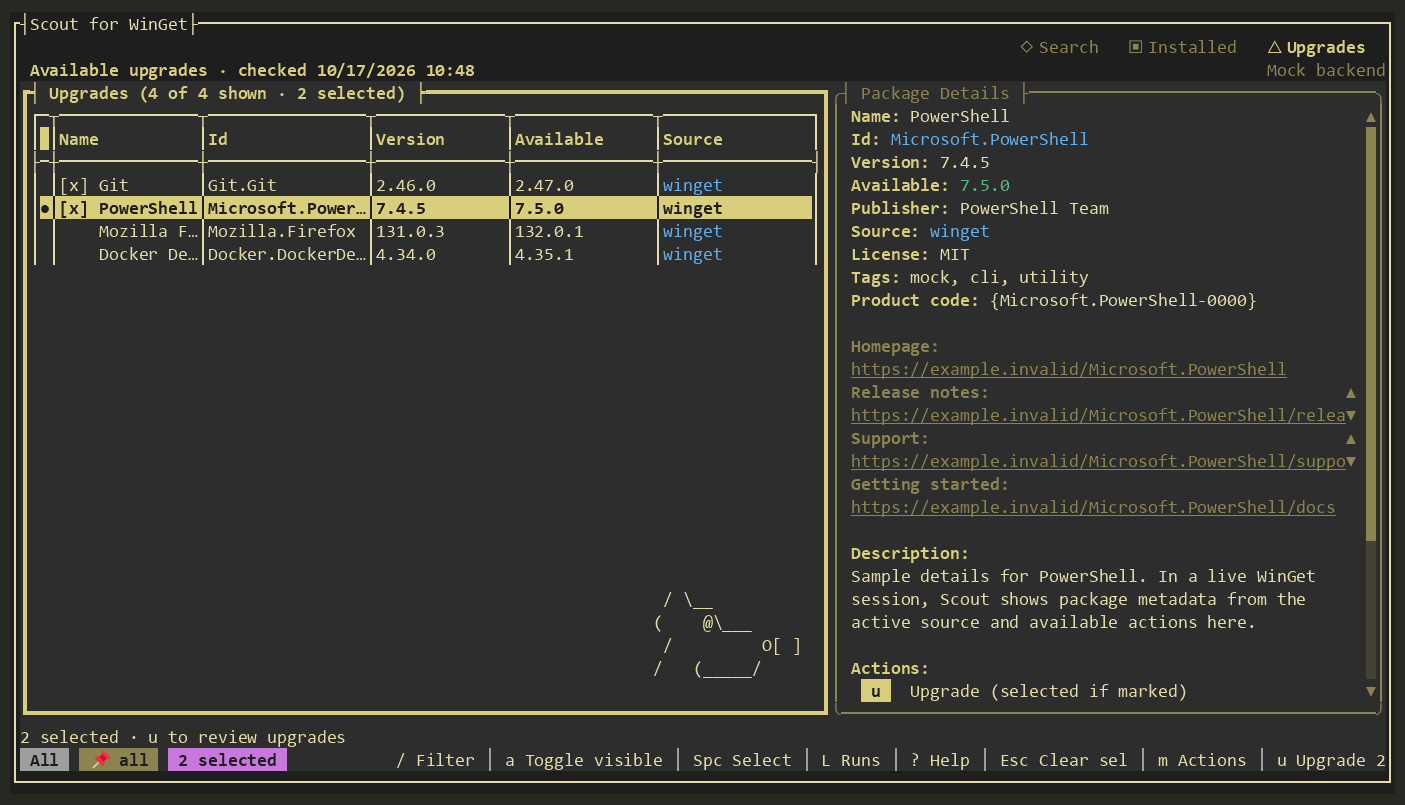
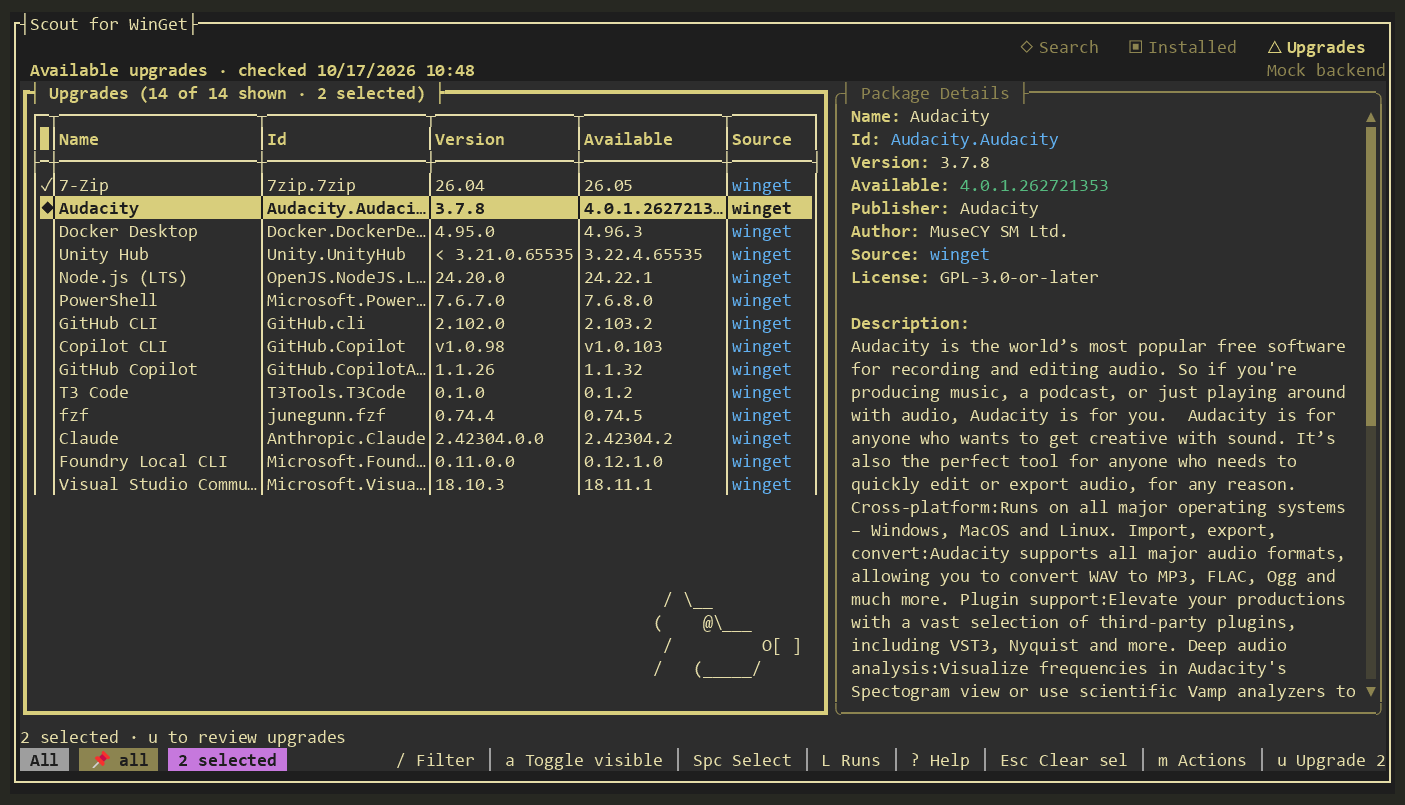
Prepare 1.1.1 release and refresh realistic mock captures (#67)

diff --git a/site/docs.html b/site/docs.html
@@ -23,8 +23,8 @@
     <div class="wrap docs-layout">
       <aside class="docs-sidebar" aria-label="Documentation sections"><p>ON THIS PAGE</p><a href="#install">Install Scout</a><a href="#first-run">Daily workflow</a><a href="#batches">Batches and selections</a><a href="#runs">History and retries</a><a href="#diagnostics">Diagnostics and reports</a><a href="#advanced">Advanced installs</a><a href="#shortcuts">Keyboard shortcuts</a><a href="#themes">Themes</a><a href="#updates">Update checks</a><a href="#backends">Backends</a><a href="#troubleshooting">Troubleshooting</a><a href="#more">More resources</a></aside>
       <div class="docs-content">
-        <section id="install"><p class="section-kicker">01 / INSTALL</p><h2>Install Scout</h2><div class="callout"><strong>Current release: 1.1.0.</strong> Clearer batch actions and progress, reviewed retries, backend/source diagnostics, report exports, and clearer advanced options. <a href="https://github.com/harder/wingetscout/releases/tag/v1.1.0">Read the release notes</a>.</div><p>Scout runs on Windows 10 or 11 with WinGet available through App Installer. Windows Terminal is recommended. Choose the <strong>portable ZIP</strong> that matches your PC:</p><div class="download-grid"><a href="https://github.com/harder/wingetscout/releases/download/v1.1.0/wingetscout-1.1.0-win-x64.zip"><strong>Windows x64</strong><span>Intel or AMD · portable ZIP ↗</span></a><a href="https://github.com/harder/wingetscout/releases/download/v1.1.0/wingetscout-1.1.0-win-arm64.zip"><strong>Windows arm64</strong><span>ARM-based PCs · portable ZIP ↗</span></a></div><ol><li>Extract the complete ZIP to a folder you will keep, such as <code>%LOCALAPPDATA%\Programs\WinGetScout</code>.</li><li>Open Windows Terminal or PowerShell in that folder.</li><li>Run <code>.\wingetscout.exe</code>.</li></ol><div class="callout"><strong>Keep the files together.</strong> The ZIP includes companion files used by the WinGet COM backend. The standalone EXE download uses the WinGet CLI backend.</div><p>The community WinGet package ID is <code>Harder.WinGetScout</code>. Its <a href="https://github.com/microsoft/winget-pkgs/pull/451328">community submission is under review</a>. Once accepted and indexed, <code>winget install -e --id Harder.WinGetScout</code> will place the portable package in WinGet's managed directory and add its command to your user PATH. The package is not yet available in the community source.</p><p>Downloads are currently unsigned. Check the release's <code>SHA256SUMS</code> file before running a download. See the <a href="https://github.com/harder/wingetscout/blob/main/docs/signing-and-distribution.md">signing status and plan</a>.</p></section>
-        <section id="first-run"><p class="section-kicker">02 / DAILY WORKFLOW</p><h2>Find your way around</h2><p>Scout opens on Installed packages. Use the left and right arrow keys or <code>1</code>/<code>2</code>/<code>3</code> to switch between <strong>Search</strong>, <strong>Installed</strong>, and <strong>Upgrades</strong>. The package list and detail panel stay side by side, so you can compare results without retyping a package ID.</p><div class="docs-image"><img src="media/scout-amber-installed.png" width="1405" height="805" loading="lazy" alt="Scout 1.1.0 showing Installed packages, details, and the two-row footer in Amber with sample data"><span>Installed view · Amber theme · v1.1.0 · sample data</span></div><ol><li>Search for a package with <code>/</code> and move through the results. Publisher, source, versions, links, and description appear beside the list.</li><li>Press <code>i</code> to install the highlighted result, or mark several with <code>Space</code> and press <code>i</code> or <code>B</code> to review the entire selection.</li><li>In Upgrades, mark packages and press <code>u</code> or <code>U</code> to review a batch.</li><li>Approve the explicit <strong>Install (N)</strong> or <strong>Upgrade (N)</strong> button after checking the plan. Open <code>L</code> afterward for outcomes, diagnostics, and reviewed retries.</li></ol><p>Press <code>m</code> or <code>Shift+F10</code>, or right-click a row, for actions that match the tab, selection, backend, and pin state. Menus put the selected plan first and offer a separate highlighted-package action. Use <code>?</code> for help; arrow and page keys scroll it.</p><p>The <a href="media/scout-search-demo.gif">search demo</a> and <a href="media/scout-upgrades-demo.gif">batch-review demo</a> show the 1.1.0 UI with sample packages. Both cancel their plans without installing anything.</p></section>
+        <section id="install"><p class="section-kicker">01 / INSTALL</p><h2>Install Scout</h2><div class="callout"><strong>Current release: 1.1.1.</strong> Compact package lists, simpler Details, clear selection markers, keyboard access to secondary links, and rendering fixes. <a href="https://github.com/harder/wingetscout/releases/tag/v1.1.1">Read the release notes</a>.</div><p>Scout runs on Windows 10 or 11 with WinGet available through App Installer. Windows Terminal is recommended. Choose the <strong>portable ZIP</strong> that matches your PC:</p><div class="download-grid"><a href="https://github.com/harder/wingetscout/releases/download/v1.1.1/wingetscout-1.1.1-win-x64.zip"><strong>Windows x64</strong><span>Intel or AMD · portable ZIP ↗</span></a><a href="https://github.com/harder/wingetscout/releases/download/v1.1.1/wingetscout-1.1.1-win-arm64.zip"><strong>Windows arm64</strong><span>ARM-based PCs · portable ZIP ↗</span></a></div><ol><li>Extract the complete ZIP to a folder you will keep, such as <code>%LOCALAPPDATA%\Programs\WinGetScout</code>.</li><li>Open Windows Terminal or PowerShell in that folder.</li><li>Run <code>.\wingetscout.exe</code>.</li></ol><div class="callout"><strong>Keep the files together.</strong> The ZIP includes companion files used by the WinGet COM backend. The standalone EXE download uses the WinGet CLI backend.</div><p>The community WinGet package ID is <code>Harder.WinGetScout</code>. Its <a href="https://github.com/microsoft/winget-pkgs/pull/451328">community submission is under review</a>. Once accepted and indexed, <code>winget install -e --id Harder.WinGetScout</code> will place the portable package in WinGet's managed directory and add its command to your user PATH. The package is not yet available in the community source.</p><p>Downloads are currently unsigned. Check the release's <code>SHA256SUMS</code> file before running a download. See the <a href="https://github.com/harder/wingetscout/blob/main/docs/signing-and-distribution.md">signing status and plan</a>.</p></section>
+        <section id="first-run"><p class="section-kicker">02 / DAILY WORKFLOW</p><h2>Find your way around</h2><p>Scout opens on Installed packages. Use the left and right arrow keys or <code>1</code>/<code>2</code>/<code>3</code> to switch between <strong>Search</strong>, <strong>Installed</strong>, and <strong>Upgrades</strong>. The package list and detail panel stay side by side, so you can compare results without retyping a package ID.</p><p>The left marker uses <code>✓</code> for selected packages, <code>◆</code> for the current selected row, and <code>●</code> for the current unselected row. Details puts descriptions first and uses compact link labels. Open Actions with <code>m</code> and choose <strong>More links…</strong> for keyboard access to support, privacy, purchase, and documentation links.</p><div class="docs-image"><img src="media/scout-amber-installed.png" width="1405" height="805" loading="lazy" alt="Scout 1.1.1 showing Installed packages, details, and the two-row footer in Amber with sample data"><span>Installed view · Amber theme · v1.1.1 · sample data</span></div><ol><li>Search for a package with <code>/</code> and move through the results. Publisher, source, versions, links, and description appear beside the list.</li><li>Press <code>i</code> to install the highlighted result, or mark several with <code>Space</code> and press <code>i</code> or <code>B</code> to review the entire selection.</li><li>In Upgrades, mark packages and press <code>u</code> or <code>U</code> to review a batch.</li><li>Approve the explicit <strong>Install (N)</strong> or <strong>Upgrade (N)</strong> button after checking the plan. Open <code>L</code> afterward for outcomes, diagnostics, and reviewed retries.</li></ol><p>Press <code>m</code> or <code>Shift+F10</code>, or right-click a row, for actions that match the tab, selection, backend, and pin state. Menus put the selected plan first and offer a separate highlighted-package action. Use <code>?</code> for help; arrow and page keys scroll it.</p><p>The <a href="media/scout-search-demo.gif">search demo</a> and <a href="media/scout-upgrades-demo.gif">batch-review demo</a> show the 1.1.1 UI with sample packages. Both cancel their plans without installing anything.</p></section>
         <section id="batches"><p class="section-kicker">03 / SELECT AND REVIEW</p><h2>Run a batch with a clear scope</h2><ol><li>Mark packages with <code>Space</code>. <code>a</code> toggles all visible rows.</li><li>Read the heading's visible/total and selected/hidden counts. Filtering, changing sources, or searching again can hide marks without clearing them.</li><li>Use <code>i</code>/<code>B</code> in Search or <code>u</code>/<code>U</code> in Upgrades. The review includes hidden selections, with visible packages in their current sort order first.</li><li>Inspect ready/skipped reasons. Enter or double-click opens Details; use Tab to reach <strong>Install (N)</strong> or <strong>Upgrade (N)</strong> and approve the ready packages.</li><li>Watch the dedicated status row for package position and backend progress. The list refreshes as soon as the batch finishes, while results are open. Successful packages are deselected; failed or cancelled ones stay marked.</li></ol><div class="callout"><strong>Marking and inspecting never approve a batch.</strong> Every selected plan and retry opens for review. An entry that cannot be resolved or safely checked is skipped with a reason.</div><p>Escape first cancels the current input or pending check/operation. Otherwise it clears all marks, including hidden packages; <strong>Clear selection</strong> in Actions does the same. Changing tabs or sources, refreshing, or cancelling a pending check discards it so a late response cannot open a stale review.</p><p>Compact tables prioritize names and versions. Full IDs and sources remain in Details; wider windows restore their columns. The title shows the active sort field and arrow even if that column is hidden. Sorting, theme changes, and pin filters keep the highlighted package when it remains visible.</p></section>
         <section id="runs"><p class="section-kicker">04 / OUTCOMES AND RETRIES</p><h2>Understand a run. Review what comes next.</h2><p>Press <code>L</code> for the 20 most recent operation runs. Open a run and choose <strong>Details</strong>, or press Enter on a package, for timing, source, versions, requested options, backend, CLI exit codes, and diagnostic output. Reports retain up to 16,384 characters of diagnostic output per package.</p><p><strong>Retry package</strong> uses the highlighted result. <strong>Retry unfinished (N)</strong> rechecks retryable failed, cancelled, and skipped requests, including packages not started in an interrupted batch. Successful packages are not repeated by Retry unfinished. Scout resolves each original ID/source and rechecks relevant installed state, versions, and pins before showing a fresh review.</p><div class="callout"><strong>Retries still need approval.</strong> Inspect ready/skipped reasons and requested options, then approve the review. Original outcomes remain in history. Pin changes and older entries without a recorded request have no retry action.</div></section>
         <section id="diagnostics"><p class="section-kicker">05 / DIAGNOSE AND SHARE</p><h2>Backend, source, and package reports</h2><p>Press <code>D</code>, or choose <strong>Backend and source diagnostics</strong> in Actions, to inspect the active backend/version, process architecture, capabilities, recorded COM fallback reason, source filter, and latest inventory-load error. The shortcut also works during a foreground workflow.</p><p>Read-only checks query each configured source for <code>Microsoft.PowerToys</code>. Empty successful queries are distinguished from failed queries or source discovery. <strong>Refresh</strong> repeats the checks; closing the panel cancels pending work.</p><p>Use <strong>Copy</strong>, <strong>Save text</strong>, or <strong>Save JSON</strong> for a completed backend report or a package's run diagnostic report. Choose a destination and confirm before replacing an existing file. Cancelling or failing a save preserves the original file; a clipboard failure leaves the viewer open so you can save instead. Arrow keys, PageUp/PageDown, Home/End, and scrollbars navigate reports.</p><div class="callout"><strong>Diagnostics do not change packages.</strong> A successful source query does not prove installation will succeed. Opening or closing reports does not cancel an operation or review already in progress.</div></section>
@@ -52,7 +52,7 @@
         <section id="updates"><p class="section-kicker">09 / STAY CURRENT</p><h2>Scheduled update checks</h2><p>On the Upgrades tab, press <code>C</code> to check now or set a daily local time. Scout creates a current-user Windows Task Scheduler task. The first successful check establishes a baseline; later checks can notify you about new or changed unpinned upgrades or a failed check.</p><div class="callout"><strong>Checks never install updates automatically.</strong> Turn off the schedule in the same dialog to remove its task. Keep the extracted folder at the same path so the task can find Scout.</div><p>Scout keeps package sets, recent runs, update-check results, and schedule settings under <code>%LOCALAPPDATA%\WinGetScout</code>. Mock sessions use its <code>Mock</code> subfolder, support manual checks, and cannot register, change, or remove daily tasks.</p></section>
         <section id="backends"><p class="section-kicker">10 / UNDER THE HOOD</p><h2>Backends and capabilities</h2><p>The complete portable ZIP uses the structured WinGet COM API where it can activate. If COM is unavailable, Scout falls back to the <code>winget</code> CLI and shows the active backend in its header. The standalone EXE download uses the CLI because it lacks the COM companion files.</p><p>Both backends support core search, install, upgrade, uninstall, pins, saved sets, history, and scheduled checks. COM can provide richer details, installer previews, version lists, live progress, and supported verify or repair actions. Some information depends on what the active backend exposes.</p><p>Native ARM64 COM installs have an unresolved <a href="https://github.com/harder/wingetscout/blob/main/docs/architecture.md#known-com-limitations">known limitation</a>. Use <code>wingetscout.exe --cli</code> for affected operations. Architecture overrides are checked against read-only previews, which do not validate an actual install.</p></section>
         <section id="troubleshooting"><p class="section-kicker">11 / HELP</p><h2>Troubleshooting</h2><div class="faq"><h3>WinGet is missing</h3><p>Run <code>winget --version</code>. If the command is unavailable, install or update Microsoft App Installer, then open a new terminal.</p><h3>Windows warns about an unsigned download</h3><p>Confirm the file came from the project's GitHub Release and compare its SHA-256 hash with the matching <code>SHA256SUMS</code> file. See the signing guide for the current status.</p><h3>COM is unavailable</h3><p>Make sure you extracted the whole ZIP, then check the active backend shown in Scout. CLI fallback still supports the core workflows. See <a href="https://github.com/harder/wingetscout#backends-and-capabilities">backend and activation details</a>.</p><h3>A batch only partly completed</h3><p>Open its results in <code>L</code>, inspect package diagnostics, and choose <strong>Retry unfinished (N)</strong> to recheck retryable requests. Review the new plan before approving.</p><h3>Selected packages seem to be missing</h3><p>Check the hidden-selection count. Filters, source changes, or earlier searches can hide marks. Review the full selection or use <strong>Clear selection</strong> in Actions.</p><h3>A list or source query failed</h3><p>Open <code>D</code> for backend/source checks and copy or save the completed report. For a package operation failure, export that package's diagnostic report from <code>L</code>.</p><h3>Text looks different in another terminal</h3><p>Windows Terminal is recommended. Terminal palette and color-support settings affect rendering; <code>NO_COLOR</code> or <code>TERM=dumb</code> in the launching environment can reduce the palette. Try another theme with <code>t</code> and include your terminal host when reporting a display issue.</p><h3>How do I get help or report a bug?</h3><p>Press <code>?</code> in Scout or open a <a href="https://github.com/harder/wingetscout/issues">GitHub issue</a>.</p></div></section>
-        <section id="more"><p class="section-kicker">12 / MORE</p><h2>More resources</h2><p>Read the <a href="https://github.com/harder/wingetscout#readme">README</a>, <a href="https://github.com/harder/wingetscout/blob/main/docs/usage.md">usage guide</a>, <a href="https://github.com/harder/wingetscout/blob/main/docs/architecture.md">architecture guide</a>, <a href="https://github.com/harder/wingetscout/releases">release history</a>, and <a href="https://github.com/harder/wingetscout/blob/main/docs/releases/1.1.0.md">1.1.0 release notes</a>.</p><p>Scout was inspired by <a href="https://github.com/shanselman/winget-tui">Scott Hanselman's winget-tui</a> and is built with <a href="https://github.com/tui-cs/Terminal.Gui">Terminal.Gui</a>. It is an independent MIT-licensed project. Meet <a href="./#maker">Kevin and the other tools behind Scout</a>.</p></section>
+        <section id="more"><p class="section-kicker">12 / MORE</p><h2>More resources</h2><p>Read the <a href="https://github.com/harder/wingetscout#readme">README</a>, <a href="https://github.com/harder/wingetscout/blob/main/docs/usage.md">usage guide</a>, <a href="https://github.com/harder/wingetscout/blob/main/docs/architecture.md">architecture guide</a>, <a href="https://github.com/harder/wingetscout/releases">release history</a>, and <a href="https://github.com/harder/wingetscout/blob/main/docs/releases/1.1.1.md">1.1.1 release notes</a>.</p><p>Scout was inspired by <a href="https://github.com/shanselman/winget-tui">Scott Hanselman's winget-tui</a> and is built with <a href="https://github.com/tui-cs/Terminal.Gui">Terminal.Gui</a>. It is an independent MIT-licensed project. Meet <a href="./#maker">Kevin and the other tools behind Scout</a>.</p></section>
       </div>
     </div>
   </main>

diff --git a/site/index.html b/site/index.html
@@ -32,10 +32,10 @@
         <p class="lead">Scout for WinGet puts search results, package details, installed apps, and available upgrades in one terminal workspace. Fewer commands to remember. More room to decide what happens next.</p>
         <div class="hero-actions"><a class="button button-primary" href="https://github.com/harder/wingetscout/releases/latest">Download for Windows <span aria-hidden="true">↗</span></a><a class="button button-secondary" href="docs.html#install">Get started</a></div>
         <p class="hero-note">Free and open source · Portable ZIP · x64 and arm64</p>
-        <p class="hero-note"><a href="https://github.com/harder/wingetscout/releases/tag/v1.1.0">Latest release: 1.1.0</a> · <a href="#new">New in 1.1.0: batches, retries, and diagnostics</a></p>
+        <p class="hero-note"><a href="https://github.com/harder/wingetscout/releases/tag/v1.1.1">Latest release: 1.1.1</a> · <a href="#new">New in 1.1.1: more room, simpler Details</a></p>
       </div>
       <div class="hero-stage">
-        <div class="hero-window"><div class="window-bar"><span class="window-dots" aria-hidden="true"><i></i><i></i><i></i></span><span>Scout for WinGet <em>/</em> Search</span><span class="window-status">DEMO MODE</span></div><img src="media/scout-sage-search.png" width="1405" height="805" alt="Scout search results beside Git package details in the Sage theme using sample data" fetchpriority="high"></div>
+        <div class="hero-window"><div class="window-bar"><span class="window-dots" aria-hidden="true"><i></i><i></i><i></i></span><span>Scout for WinGet <em>/</em> Search</span><span class="window-status">DEMO MODE</span></div><img src="media/scout-sage-search.png" width="1405" height="805" alt="Scout search results beside GitHub CLI package details in the Sage theme using sample data" fetchpriority="high"></div>
         <div class="mascot-sticker"><img src="media/scout-dog.svg" width="206" height="142" alt="Scout, a floppy-eared puppy carrying a parcel"></div>
         <div class="stage-caption"><span class="caption-line" aria-hidden="true"></span> Results and details stay together</div>
       </div>
@@ -59,31 +59,31 @@
     </div></section>
 
     <section class="section wrap" id="new" aria-labelledby="new-title">
-      <div class="section-heading"><p class="section-kicker">NEW IN 1.1.0</p><h2 id="new-title">A clearer batch. A useful record.</h2><p>See what is selected, follow each package, understand the outcome, and review unfinished work before trying again. Available in the 1.1.0 release.</p></div>
+      <div class="section-heading"><p class="section-kicker">NEW IN 1.1.1</p><h2 id="new-title">More room. Useful details.</h2><p>Package names and versions get the space they need, while Details keeps the information that helps you decide.</p></div>
       <div class="feature-grid">
-        <article class="feature-card"><span class="feature-icon" aria-hidden="true">✓</span><span class="feature-number">SELECT AND REVIEW</span><h3>Know what will run</h3><p>Mark packages, then press i in Search or u in Upgrades to review them together. See visible, selected, and hidden counts; inspect Details before approving the explicit Install (N) or Upgrade (N) button.</p><div class="feature-links"><a href="docs.html#batches">Batch workflow →</a></div></article>
-        <article class="feature-card"><span class="feature-icon" aria-hidden="true">↗</span><span class="feature-number">FOLLOW THE WORK</span><h3>Keep progress in view</h3><p>A dedicated status row shows the current package and backend progress. Inventory refreshes when the batch finishes, successful marks clear, and unfinished packages stay selected. Contextual menus offer both batch and highlighted-package actions.</p><div class="feature-links"><a href="docs.html#first-run">Daily controls →</a></div></article>
-        <article class="feature-card"><span class="feature-icon" aria-hidden="true">◷</span><span class="feature-number">UNDERSTAND AND RETRY</span><h3>Pick up unfinished work</h3><p>Inspect package timing, versions, options, and diagnostic output in recent runs. Retry one package or unfinished requests after fresh checks and another review, keeping the original outcomes in history.</p><div class="feature-links"><a href="docs.html#runs">History and retries →</a></div></article>
-        <article class="feature-card"><span class="feature-icon" aria-hidden="true">▤</span><span class="feature-number">CHECK AND EXPLAIN</span><h3>Get useful diagnostics</h3><p>Check backend and source health, then copy or save text/JSON reports. Advanced installs explain defaults and overrides and preview the selected installer before final confirmation.</p><div class="feature-links"><a href="docs.html#diagnostics">Diagnostics →</a><a href="docs.html#advanced">Advanced options →</a></div></article>
+        <article class="feature-card"><span class="feature-icon" aria-hidden="true">✓</span><span class="feature-number">COMPACT LISTS</span><h3>See more of each name</h3><p>A single-cell selection marker replaces empty padding. Narrow lists keep versions readable, and filtered empty states explain what happened.</p><div class="feature-links"><a href="docs.html#first-run">Daily controls →</a></div></article>
+        <article class="feature-card"><span class="feature-icon" aria-hidden="true">▤</span><span class="feature-number">SIMPLER DETAILS</span><h3>Read what matters</h3><p>Descriptions come first. Compact links replace long URLs, and installer identifiers and repeated metadata stay out of the way.</p><div class="feature-links"><a href="docs.html#first-run">Explore Details →</a></div></article>
+        <article class="feature-card"><span class="feature-icon" aria-hidden="true">↗</span><span class="feature-number">KEYBOARD ACCESS</span><h3>Reach the other links</h3><p>Open Actions with m and choose More links… for support, privacy, purchase, and documentation. Review and result rows add identity only when names collide.</p><div class="feature-links"><a href="docs.html#shortcuts">Keyboard shortcuts →</a></div></article>
+        <article class="feature-card"><span class="feature-icon" aria-hidden="true">◇</span><span class="feature-number">REALISTIC DEMOS</span><h3>Try a familiar package list</h3><p>The safe mock mode uses a frozen snapshot of real package metadata, installed versions, and upgrade candidates. The refreshed gallery and demos show the same data.</p><div class="feature-links"><a href="#themes">Browse the captures →</a></div></article>
       </div>
     </section>
 
     <section class="section wrap theme-section" id="themes" aria-labelledby="themes-title">
-      <div class="section-heading"><p class="section-kicker">MAKE IT YOURS</p><h2 id="themes-title">Four ways to feel at home.</h2><p>Switch palettes in the app with <kbd>t</kbd>. These captures show Scout 1.1.0 with sample packages; the gallery changes both palette and task.</p></div>
+      <div class="section-heading"><p class="section-kicker">MAKE IT YOURS</p><h2 id="themes-title">Four ways to feel at home.</h2><p>Switch palettes in the app with <kbd>t</kbd>. These captures show Scout 1.1.1 with sample packages; the gallery changes both palette and task.</p></div>
       <div class="theme-layout" data-theme-picker>
         <div class="theme-display"><div class="theme-display-top"><span class="preview-led" aria-hidden="true"></span><strong data-theme-title>Sage / Search</strong><span>CAPTURED IN DEMO MODE</span></div><img data-theme-image src="media/scout-sage-search.png" width="1405" height="805" loading="lazy" alt="Sage theme showing search results and details for Git"><p data-theme-caption>Search results and package details, side by side.</p></div>
         <div class="theme-controls" aria-label="Choose a theme screenshot">
-          <button type="button" class="theme-choice is-active" aria-pressed="true" data-theme-src="media/scout-sage-search.png" data-theme-title="Sage / Search" data-theme-alt="Sage theme showing search results and details for Git" data-theme-caption="Search results and package details, side by side."><span class="swatch swatch-sage" aria-hidden="true"></span><span><strong>Sage</strong><small>Search · Git</small></span><span aria-hidden="true">↗</span></button>
+          <button type="button" class="theme-choice is-active" aria-pressed="true" data-theme-src="media/scout-sage-search.png" data-theme-title="Sage / Search" data-theme-alt="Sage theme showing search results and details for Git" data-theme-caption="Search results and package details, side by side."><span class="swatch swatch-sage" aria-hidden="true"></span><span><strong>Sage</strong><small>Search · GitHub</small></span><span aria-hidden="true">↗</span></button>
           <button type="button" class="theme-choice" aria-pressed="false" data-theme-src="media/scout-amber-installed.png" data-theme-title="Amber / Installed" data-theme-alt="Amber theme showing the installed package list and Visual Studio Code details" data-theme-caption="Your installed apps in a browsable list."><span class="swatch swatch-amber" aria-hidden="true"></span><span><strong>Amber</strong><small>Installed · apps</small></span><span aria-hidden="true">↗</span></button>
           <button type="button" class="theme-choice" aria-pressed="false" data-theme-src="media/scout-moss-upgrades.png" data-theme-title="Moss &amp; Olive / Upgrades" data-theme-alt="Moss and Olive theme showing two marked upgrades, selection counts, and package details" data-theme-caption="Two marked upgrades, with counts and the batch action in the footer."><span class="swatch swatch-moss" aria-hidden="true"></span><span><strong>Moss &amp; Olive</strong><small>Upgrades · updates</small></span><span aria-hidden="true">↗</span></button>
-          <button type="button" class="theme-choice" aria-pressed="false" data-theme-src="media/scout-rose-search.png" data-theme-title="Dusty Rose / Search" data-theme-alt="Dusty Rose theme showing Visual Studio Code search results and details" data-theme-caption="A softer palette for the same keyboard-friendly flow."><span class="swatch swatch-rose" aria-hidden="true"></span><span><strong>Dusty Rose</strong><small>Search · Visual Studio Code</small></span><span aria-hidden="true">↗</span></button>
+          <button type="button" class="theme-choice" aria-pressed="false" data-theme-src="media/scout-rose-search.png" data-theme-title="Dusty Rose / Search" data-theme-alt="Dusty Rose theme showing Visual Studio search results and details" data-theme-caption="A softer palette for the same keyboard-friendly flow."><span class="swatch swatch-rose" aria-hidden="true"></span><span><strong>Dusty Rose</strong><small>Search · Visual Studio</small></span><span aria-hidden="true">↗</span></button>
         </div>
       </div>
       <div class="demo-grid" aria-label="Scout demonstrations">
-        <figure class="demo-card"><img src="media/scout-search-demo.gif" width="1405" height="805" loading="lazy" alt="Scout 1.1.0: finds Git, marks a result, opens Actions, reviews the install plan and Details, then cancels"><figcaption><strong>Find a package</strong><span>Mark a result, explore Actions, and inspect its plan before approval.</span></figcaption></figure>
-        <figure class="demo-card"><img src="media/scout-upgrades-demo.gif" width="1405" height="805" loading="lazy" alt="Scout 1.1.0: marks two upgrades, reviews their plan and Details, cancels, and opens backend diagnostics"><figcaption><strong>Review a batch</strong><span>Mark two upgrades, inspect the plan, and check backend diagnostics.</span></figcaption></figure>
+        <figure class="demo-card"><img src="media/scout-search-demo.gif" width="1405" height="805" loading="lazy" alt="Scout 1.1.1: finds Neovim, marks a result, opens Actions, reviews the install plan and Details, then cancels"><figcaption><strong>Find a package</strong><span>Mark a result, explore Actions, and inspect its plan before approval.</span></figcaption></figure>
+        <figure class="demo-card"><img src="media/scout-upgrades-demo.gif" width="1405" height="805" loading="lazy" alt="Scout 1.1.1: marks two upgrades, reviews their plan and Details, cancels, and opens backend diagnostics"><figcaption><strong>Review a batch</strong><span>Mark two upgrades, inspect the plan, and check backend diagnostics.</span></figcaption></figure>
       </div>
-      <p class="capture-note">Screenshots and GIFs show the 1.1.0 UI, captured with <a href="https://github.com/tui-cs/tuirec">tuirec</a> in <code>--mock</code> mode. Package names and links are sample data; both demo plans are cancelled without execution.</p>
+      <p class="capture-note">Screenshots and GIFs show the 1.1.1 UI, captured with <a href="https://github.com/tui-cs/tuirec">tuirec</a> in <code>--mock</code> mode. Package metadata comes from a frozen catalog snapshot; both demo plans are cancelled without execution.</p>
     </section>
 
     <section class="install-section" id="install" aria-labelledby="install-title"><div class="wrap install-panel"><div><p class="section-kicker">READY WHEN YOU ARE</p><h2 id="install-title">Unzip. Open. Scout.</h2><p>Download the portable ZIP for your PC, extract the complete folder, and run <code>wingetscout.exe</code>. No .NET runtime or installer is required.</p><div class="hero-actions"><a class="button button-primary" href="https://github.com/harder/wingetscout/releases/latest">Get the latest release <span aria-hidden="true">↗</span></a><a class="button button-secondary" href="docs.html#install">Installation steps</a></div><p class="install-footnote">The <a href="https://github.com/microsoft/winget-pkgs/pull/451328">WinGet community package has been submitted</a>. Its <code>winget install</code> command will be available after the submission is accepted and indexed.</p></div><div class="install-steps"><div><b>01</b><span><strong>Choose your ZIP</strong><small>Windows x64 or arm64</small></span></div><div><b>02</b><span><strong>Keep the folder together</strong><small>Companion files enable the COM backend</small></span></div><div><b>03</b><span><strong>Launch Scout</strong><small>Open it from Windows Terminal or PowerShell</small></span></div></div></div></section>

diff --git a/docs/releases/1.1.1.md b/docs/releases/1.1.1.md
@@ -1,0 +1,53 @@
+## What's new in 1.1.1
+
+Scout 1.1.1 makes package lists and Details easier to scan, improves compact
+layouts and keyboard access, and refreshes the documentation with realistic
+mock sessions. It includes the changes merged since v1.1.0.
+
+### More room for packages
+
+- A single-cell selection marker replaces the padding before package names.
+  `✓` marks a selected package, `◆` identifies the current selected row, and
+  `●` identifies the current unselected row.
+- Narrow tables prioritize package names and versions. Source stays compact
+  and disappears before it can crowd upgrade versions.
+- Empty-list messages remain readable after filtering a populated list.
+  Long identifiers and paths wrap without losing their tails, and Help fits
+  narrow terminals with keyboard scrolling.
+
+### Details that focus on useful information
+
+- Descriptions appear before secondary metadata. Details omits installer product
+  codes, opaque family names, copyright, and repeated author/version values.
+  Search shows a short tag summary; Installed and Upgrades omit tag lists.
+- Compact link labels keep long URLs from consuming the pane. **More links…**
+  in the action menu provides keyboard access to support, privacy, purchase,
+  and documentation links. Links open their original destinations.
+- Review and result rows show status, package name, and reason. Source or ID
+  appears only when needed to distinguish packages with the same name.
+  Status labels align, review buttons fit, and backend errors display literally.
+
+### Updated rendering and realistic demonstrations
+
+- Update Terminal.Gui from `2.5.1-develop.89` to `2.5.1-develop.171`, including
+  Windows supplementary Unicode input, Markdown partial-redraw, and nested-dialog
+  shutdown fixes. The final `.170` to `.171` increment changes upstream tests only.
+- Replace synthetic mock metadata with a frozen snapshot of 23 real catalog
+  entries, including 18 installed packages and 14 available upgrades. Each mock
+  session gets its own data; observed version choices are newest-first.
+- Refresh all four theme screenshots and both workflow GIFs with the new data.
+  Demonstrations review plans and cancel them without changing real packages.
+
+Validation includes 749 automated tests, Windows ARM64/x64 Native AOT builds,
+mock smoke checks, and read-only ARM64 COM diagnostics. Native Windows Terminal
+keyboard/mouse/resize behavior remains unverified. Native ARM64 COM installs
+remain a [known limitation](https://github.com/harder/wingetscout/blob/main/docs/architecture.md#known-com-limitations);
+use the CLI backend for affected operations.
+
+See the [usage guide](https://github.com/harder/wingetscout/blob/main/docs/usage.md),
+[UX audit](https://github.com/harder/wingetscout/blob/main/docs/ux-audit-2026-10-24.md),
+and [dependency review](https://github.com/harder/wingetscout/blob/main/docs/terminal-gui-update-review.md)
+for behavior, evidence, and validation limits. Changes were merged in
+[#63](https://github.com/harder/wingetscout/pull/63),
+[#65](https://github.com/harder/wingetscout/pull/65), and
+[#66](https://github.com/harder/wingetscout/pull/66).

diff --git a/docs/releases/unreleased.md b/docs/releases/unreleased.md
@@ -1,40 +1,3 @@
 # Unreleased
 
-- Update Terminal.Gui to `2.5.1-develop.171`. Its only upstream change improves
-  test assertions; runtime source and transitive dependencies are unchanged.
-  See the [dependency review](../terminal-gui-update-review.md#october-24-follow-up-develop171)
-  for source comparison and compatibility checks.
-- Reclaim unused Source-column width for package names. Keep versions visible
-  across the supported terminal sizes without expanding the Source column.
-- Put descriptions before secondary metadata and use compact, clickable link
-  labels. Omit repeated author/version values, copyright, opaque family names,
-  and installed/upgrade tag lists; Search keeps a short tag summary.
-- Wrap long identifiers and paths without dropping their tails. Make Help wrap
-  vertically at 80×24, keep review/result reasons visible, separate review buttons,
-  and clarify visible-row marks and review-before-execution instructions.
-- Replace synthetic mock metadata with a frozen snapshot of 23 real catalog
-  entries, including 18 installed packages and 14 available upgrades. Remove
-  duplicate search identities and preserve installed versus catalog versions.
-  See the [UX audit](../ux-audit-2026-10-24.md) and
-  [fixture provenance](../../src/MockData/README.md).
-- Use a single-cell check in the existing marker column for batch selections in
-  Search and Upgrades, giving the four reserved name cells back to package names.
-- Keep empty-list messages readable after filtering a populated list. Distinguish
-  the current marked row with `◆`, and keep Source hidden in narrow Upgrades panes
-  until version columns have enough space.
-- Offer secondary package links through **More links…** in the keyboard action
-  menu. Preserve literal link labels, original destinations, and backend errors.
-  Disambiguate duplicate names in review/results only when needed and align their
-  status labels. See the [PR review follow-up](../pr65-review-follow-up.md).
-- Remove the Product code list from Package Details. These installer identities
-  support package detection and maintenance rather than everyday package browsing.
-  See the [interface review](../product-code-ui-review.md) for the comparison.
-- Update Terminal.Gui from `2.5.1-develop.89` to `2.5.1-develop.170` for Windows
-  supplementary Unicode input, Markdown partial redraw, and nested-dialog
-  shutdown fixes. Details links use the updated Markdown renderer.
-- Add rendered Details-link compatibility coverage for partial redraws,
-  scrollbar hover, resizing, and scrolling.
-
-See the [dependency review](../terminal-gui-update-review.md) for upstream
-capabilities, adoption decisions, source commits, and validation limits.
-Published 1.1.0 downloads are unchanged.
+No changes since [1.1.1](1.1.1.md).

diff --git a/docs/website.md b/docs/website.md
@@ -9,16 +9,15 @@ Run `python site/build.py` from the repository root to build `site/_build/` and 
 The four theme PNGs and two short GIFs in `site/media/` come from the real app in
 safe `--mock` mode and show sample packages.
 
-Current source builds use the frozen [catalog snapshot](../src/MockData/README.md)
-for realistic mock sessions. Local UX review captures are under
-`publish/ux-audit/`; published media continues to describe its tagged release.
+The 1.1.1 captures use the frozen [catalog snapshot](../src/MockData/README.md),
+with real package metadata and observed installed/available versions. Operations
+remain simulated in safe `--mock` mode.
 
-The current captures show the 1.1.0 UI (the changes merged in PRs #54–56).
-The search demo marks a result,
-opens Actions, reviews its install plan, and inspects Details; the upgrades demo
-marks two packages, reviews their plan, inspects Details, and opens backend/source
-diagnostics. Both cancel the plans without executing packages. The Moss still
-shows two marked upgrades and the selection-aware footer.
+The search demo finds Neovim, marks it, opens Actions, reviews its ready-to-install
+plan, and inspects Details. The upgrades demo marks two packages, reviews their
+plan, inspects Details, and opens backend/source diagnostics. Both cancel the
+plans without executing packages. The Moss still shows two marked upgrades,
+the one-cell current/selected indicators, and the selection-aware footer.
 
 Build the current branch, install [tuirec](https://github.com/tui-cs/tuirec),
 then run on Windows:
@@ -31,8 +30,12 @@ python site/build.py
 
 Pass `-TuirecPath <path-to-tuirec.exe>` when it is not on `PATH`. The script records at 140 × 34 terminal cells with the application's current column layout. It temporarily enables true color for the child process. Inspect every capture before committing it, especially the text, selection state, and column widths. If a layout change ships in a new release, regenerate the media from that source and update any version-specific description at the same time.
 
+The recorder also saves raw demo casts under `publish/capture-evidence/` for
+checking the review and cancellation steps. Use `-EvidenceDirectory` to choose
+a different evidence folder. Review representative GIF frames as well as each PNG.
+
 Keep the homepage's new-release section, documentation, README shortcuts, and
-[release notes](releases/1.1.0.md) aligned. Until a new release is published,
+[release notes](releases/1.1.1.md) aligned. Until a new release is published,
 download buttons must still target the latest published
 assets and main-only features must be labelled. The documentation sidebar and
 section IDs are checked by the site build; check both pages at desktop and narrow

diff --git a/docs/usage.md b/docs/usage.md
@@ -4,10 +4,10 @@ For installation and a quick start, see the [README](../README.md#install).
 Press `?` in Scout for the current in-app shortcut reference. This guide
 explains the main workflows and where their results are stored.
 
-This guide describes v1.1.0. See the [release notes](releases/1.1.0.md) for
-the batch, retry, and diagnostic improvements added since v1.0.3.
+This guide describes v1.1.1. See the [release notes](releases/1.1.1.md) for
+the compact layouts, simpler Details, and rendering improvements.
 
-In the unreleased source build, a one-cell `✓` in the left marker column identifies
+A one-cell `✓` in the left marker column identifies
 marked Search and Upgrades packages; `◆` identifies the current marked row.
 The current unmarked row uses `●`, and package
 names no longer reserve selection padding. Package Details also omits the Product
@@ -16,8 +16,7 @@ wraps long IDs. Help and review dialogs also use the available width more
 effectively. The action menu's **More links…** entry provides keyboard access to
 support, privacy, purchase, and documentation links. Review/result rows include
 source or ID only when needed to distinguish packages with the same name.
-These changes are not in the published 1.1.0 downloads. See the
-[UX audit](ux-audit-2026-10-24.md) for the checked surfaces and limits.
+See the [UX audit](ux-audit-2026-10-24.md) for the checked surfaces and limits.
 
 ## Navigate and find packages
 

diff --git a/docs/index.md b/docs/index.md
@@ -3,13 +3,14 @@
 Start with the [README](../README.md) for installation and a quick tour, or
 [CONTRIBUTING](../CONTRIBUTING.md) to build and test a change.
 
-These guides describe [v1.1.0](https://github.com/harder/wingetscout/releases/tag/v1.1.0).
-See the [1.1.0 release notes](releases/1.1.0.md) for the changes since v1.0.3.
+These guides describe [v1.1.1](https://github.com/harder/wingetscout/releases/tag/v1.1.1).
+See the [1.1.1 release notes](releases/1.1.1.md) for the changes since v1.1.0.
 
 | Guide | Use it for |
 | --- | --- |
-| [Unreleased changes](releases/unreleased.md) | Changes under development after 1.1.0 |
+| [Unreleased changes](releases/unreleased.md) | Changes under development after 1.1.1 |
 | [Terminal.Gui update review](terminal-gui-update-review.md) | Upstream fixes, adoption decisions, and compatibility validation |
+| [1.1.1 release notes](releases/1.1.1.md) | Compact layouts, simpler Details, and rendering fixes |
 | [1.1.0 release notes](releases/1.1.0.md) | Batch UX, reviewed retries, diagnostics, and advanced options |
 | [Usage](usage.md) | Navigation, selections, batch review, run reports, retries, and update checks |
 | [Architecture](architecture.md) | Backend, UI, workflow, Native AOT, and release code |

diff --git a/README.md b/README.md
@@ -10,7 +10,7 @@
 
 [Guides](https://github.com/harder/wingetscout/blob/main/docs/index.md) · [Usage](https://github.com/harder/wingetscout/blob/main/docs/usage.md) · [Architecture](https://github.com/harder/wingetscout/blob/main/docs/architecture.md)
 
-**New in [v1.1.0](https://github.com/harder/wingetscout/releases/tag/v1.1.0):** Clearer batch selection, dedicated progress, refreshed results, reviewed retries, copyable diagnostics, and clearer advanced options. See the [release notes](https://github.com/harder/wingetscout/blob/main/docs/releases/1.1.0.md). This guide and its sample captures describe 1.1.0; published downloads are available from [GitHub Releases](https://github.com/harder/wingetscout/releases).
+**New in [v1.1.1](https://github.com/harder/wingetscout/releases/tag/v1.1.1):** More room for package names, simpler Details, clearer selection markers, and keyboard access to secondary links. See the [release notes](https://github.com/harder/wingetscout/blob/main/docs/releases/1.1.1.md). The screenshots and GIFs show 1.1.1 with a frozen snapshot of real package metadata in safe mock mode.
 
 ![Scout search results and package details in the Sage theme, using sample data](site/media/scout-sage-search.png)
 
